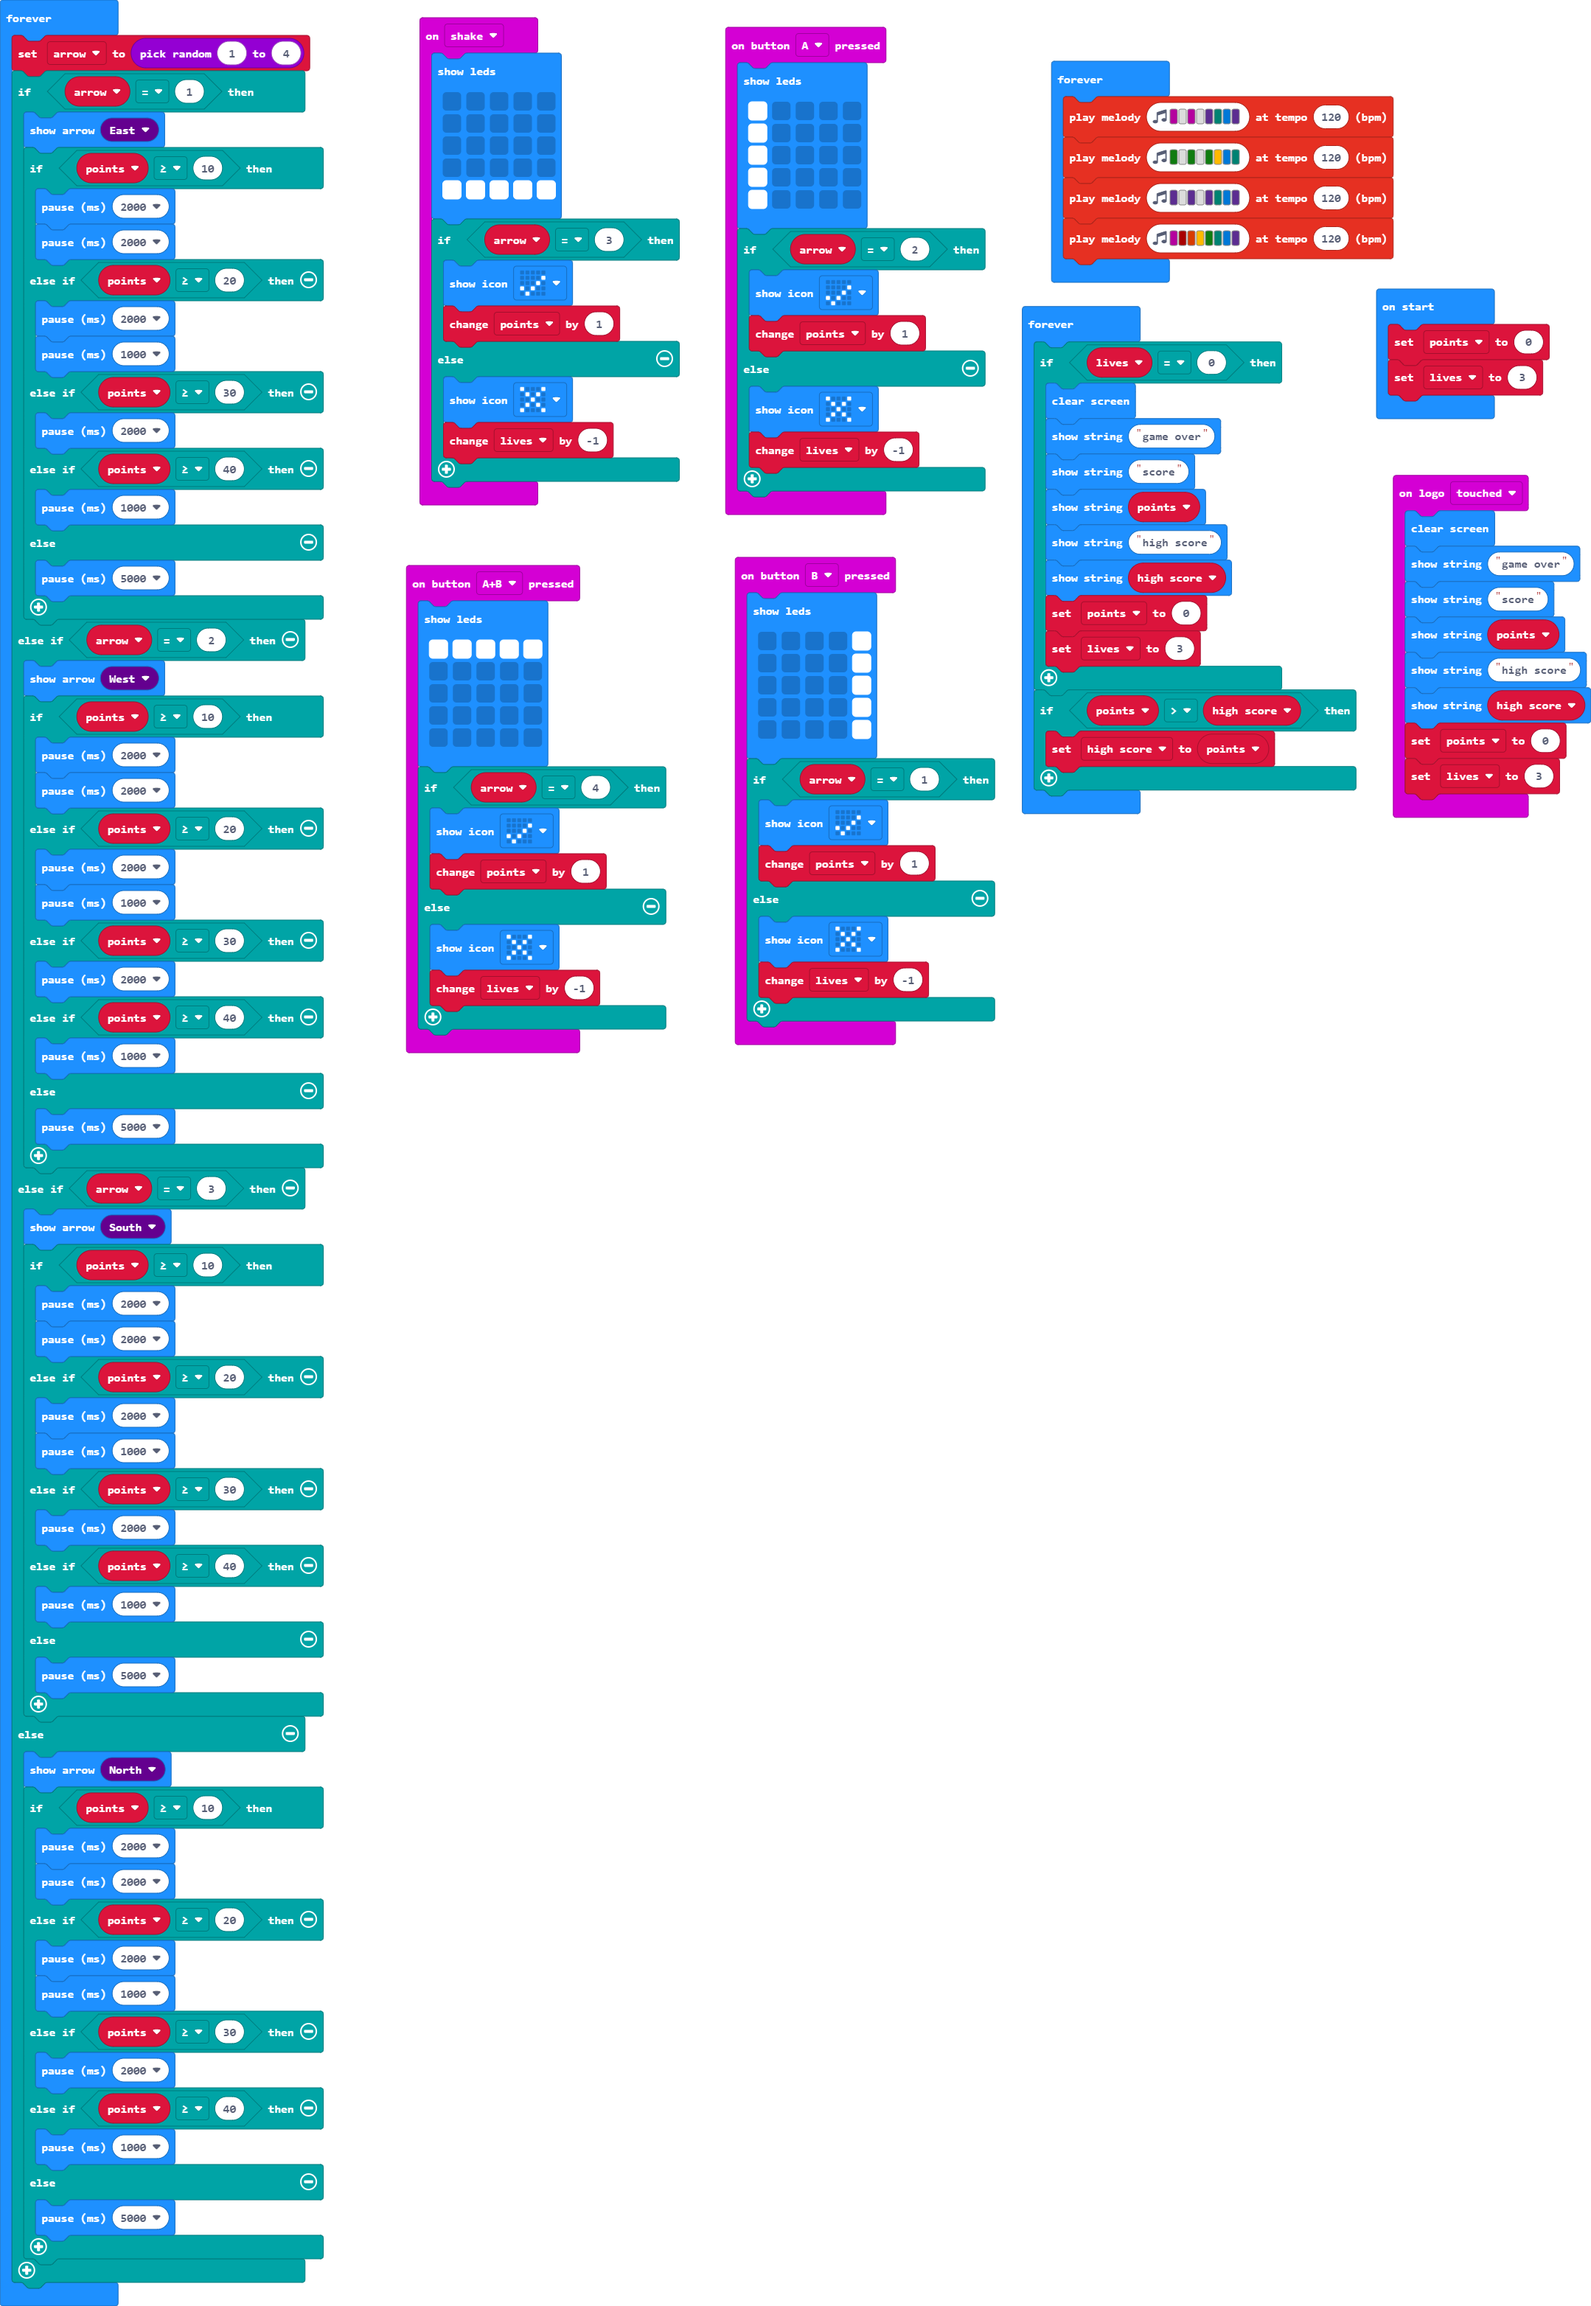
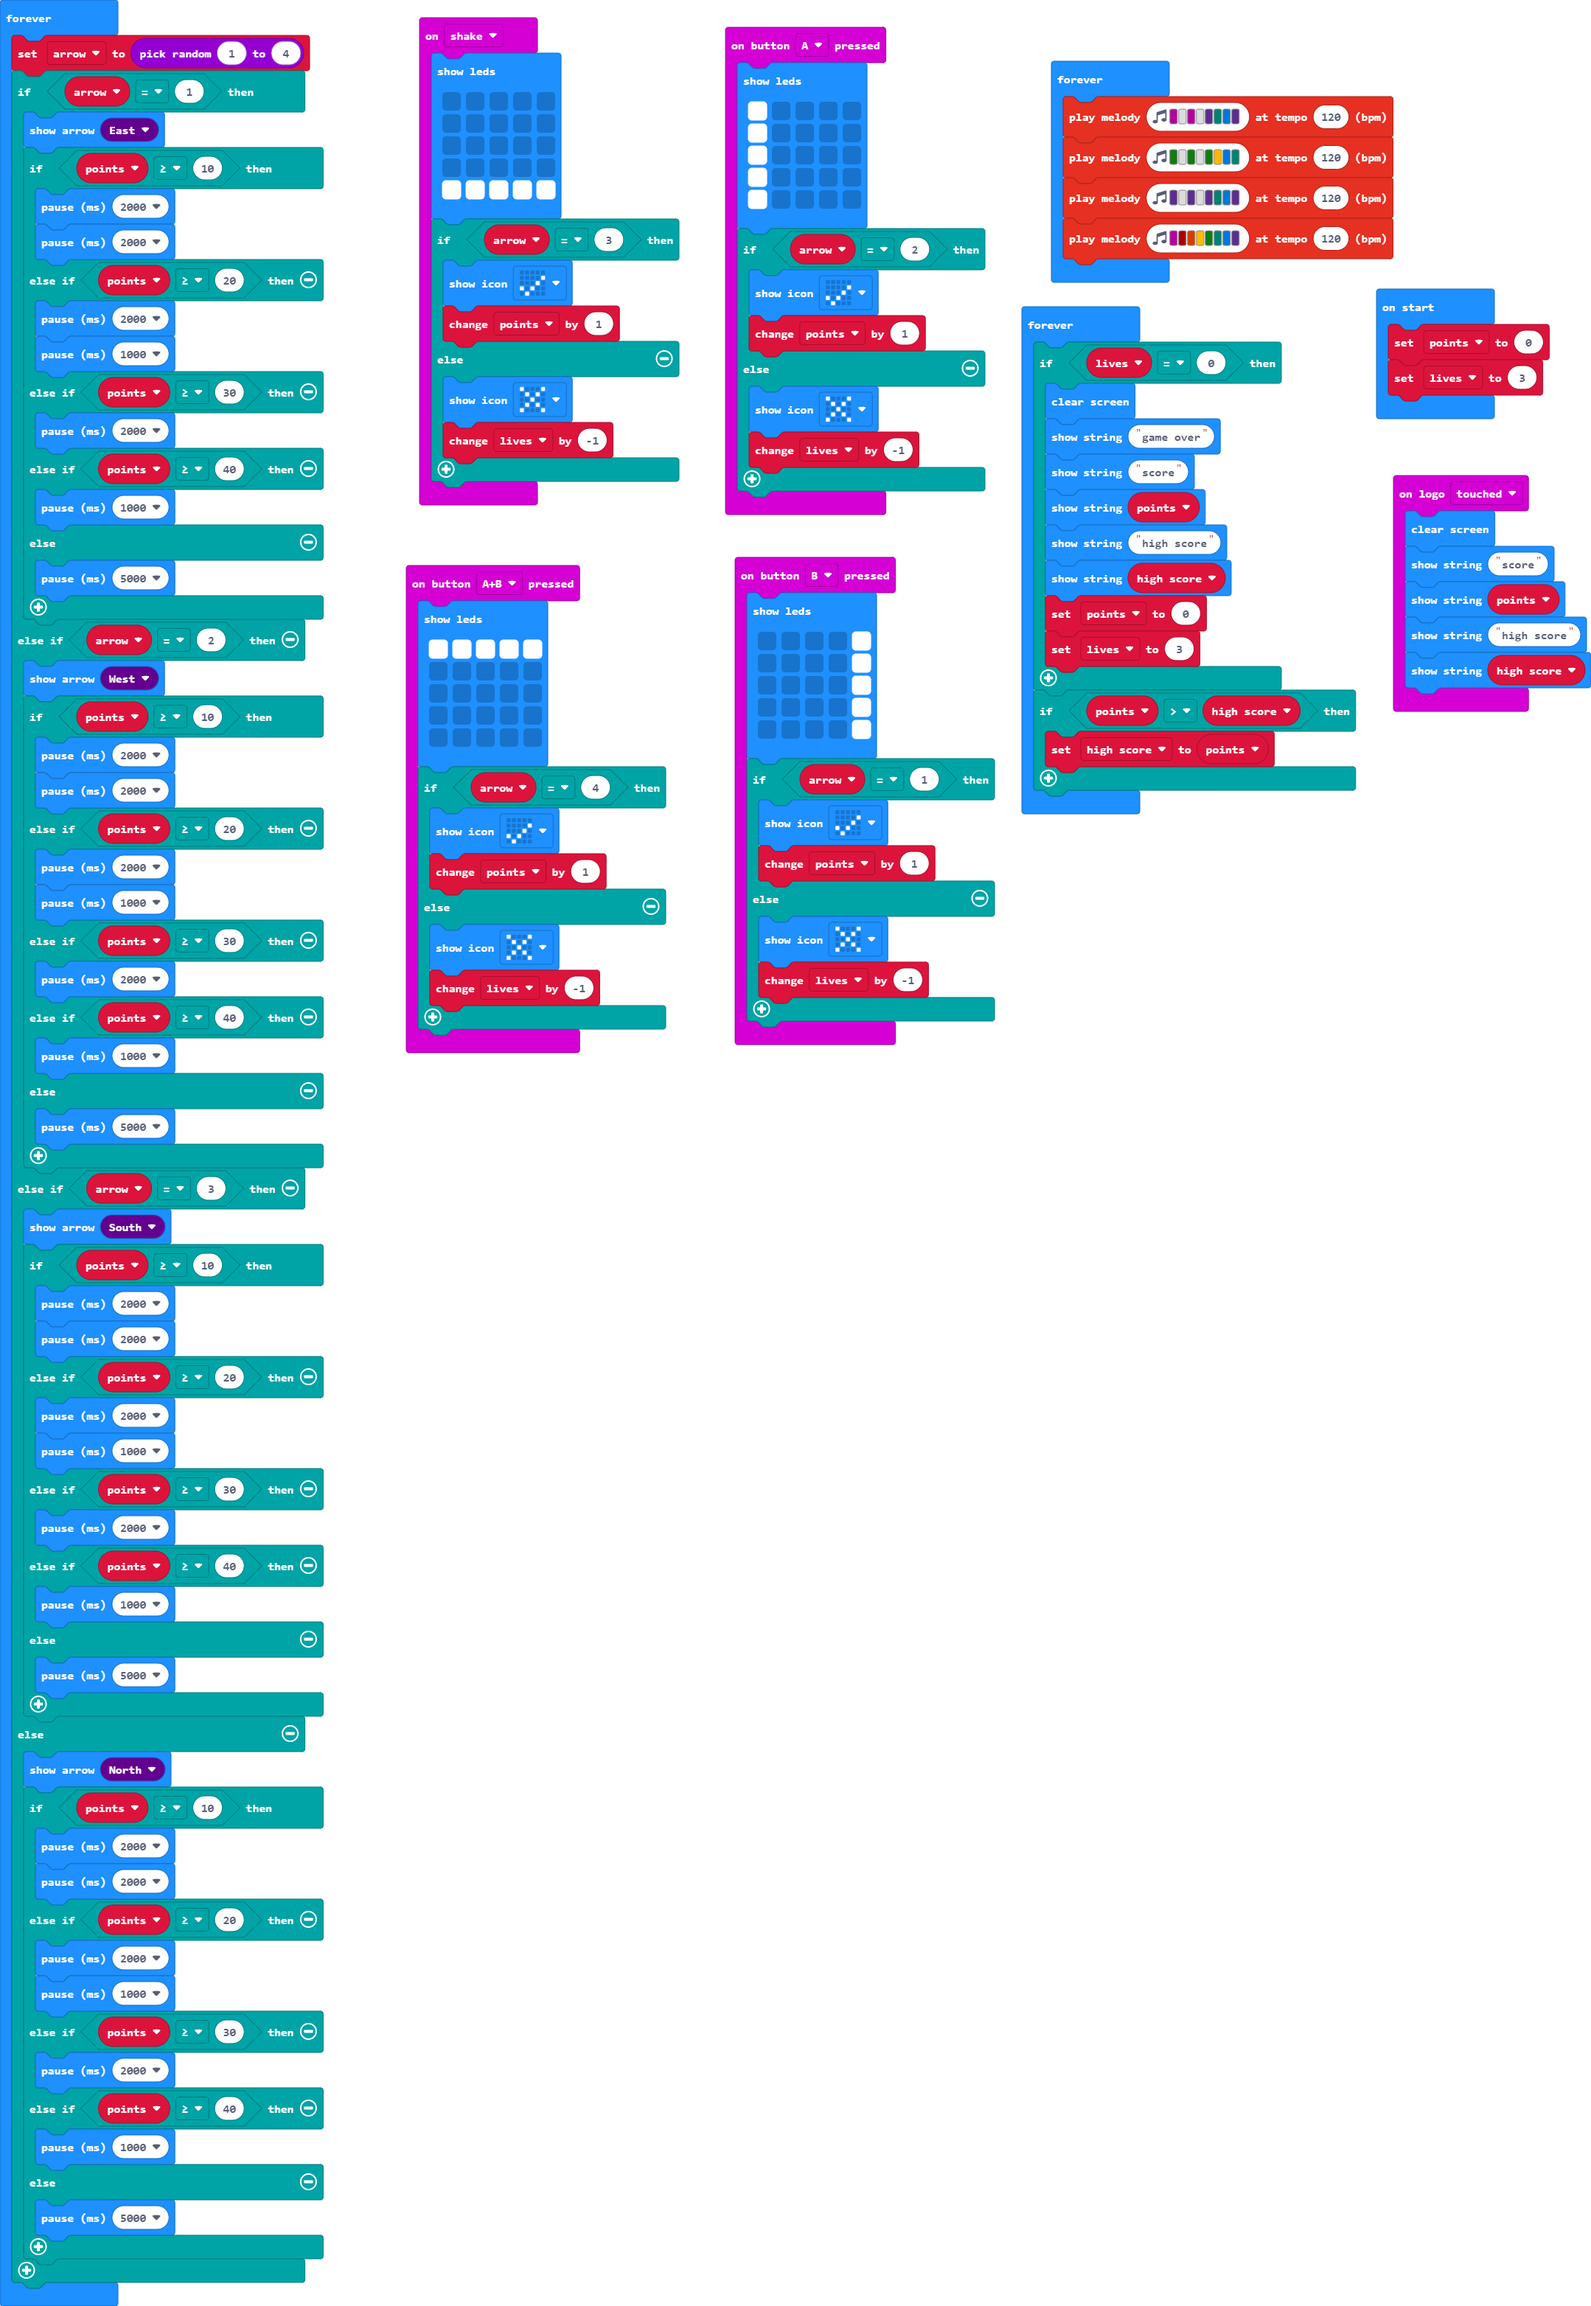
Update main.blocks, main.ts

Changed region(s): [[0.8693, 0.2171, 1.0, 0.3721], [0.652, 0.1551, 0.7762, 0.3411]]

diff --git a/main.ts b/main.ts
@@ -64,20 +64,16 @@ input.onGesture(Gesture.Shake, function () {
 })
 input.onLogoEvent(TouchButtonEvent.Touched, function () {
     basic.clearScreen()
-    basic.showString("game over")
     basic.showString("score")
     basic.showString("" + (points))
     basic.showString("high score")
     basic.showString("" + (high_score))
-    points = 0
-    lives = 3
 })
 let high_score = 0
 let arrow = 0
-let lives = 0
 let points = 0
 points = 0
-lives = 3
+let lives = 3
 basic.forever(function () {
     arrow = randint(1, 4)
     if (arrow == 1) {
